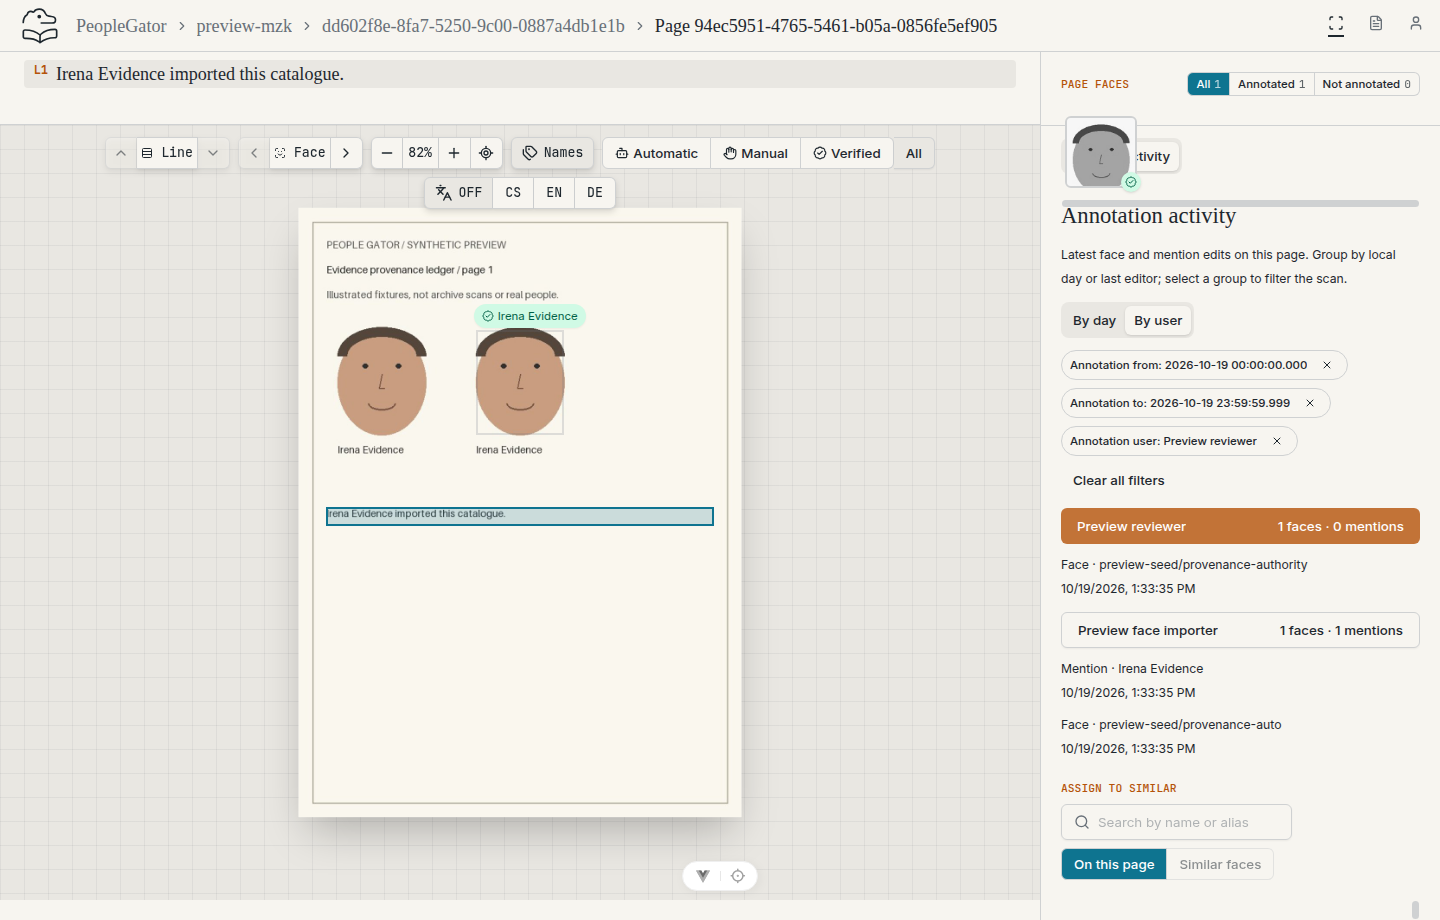
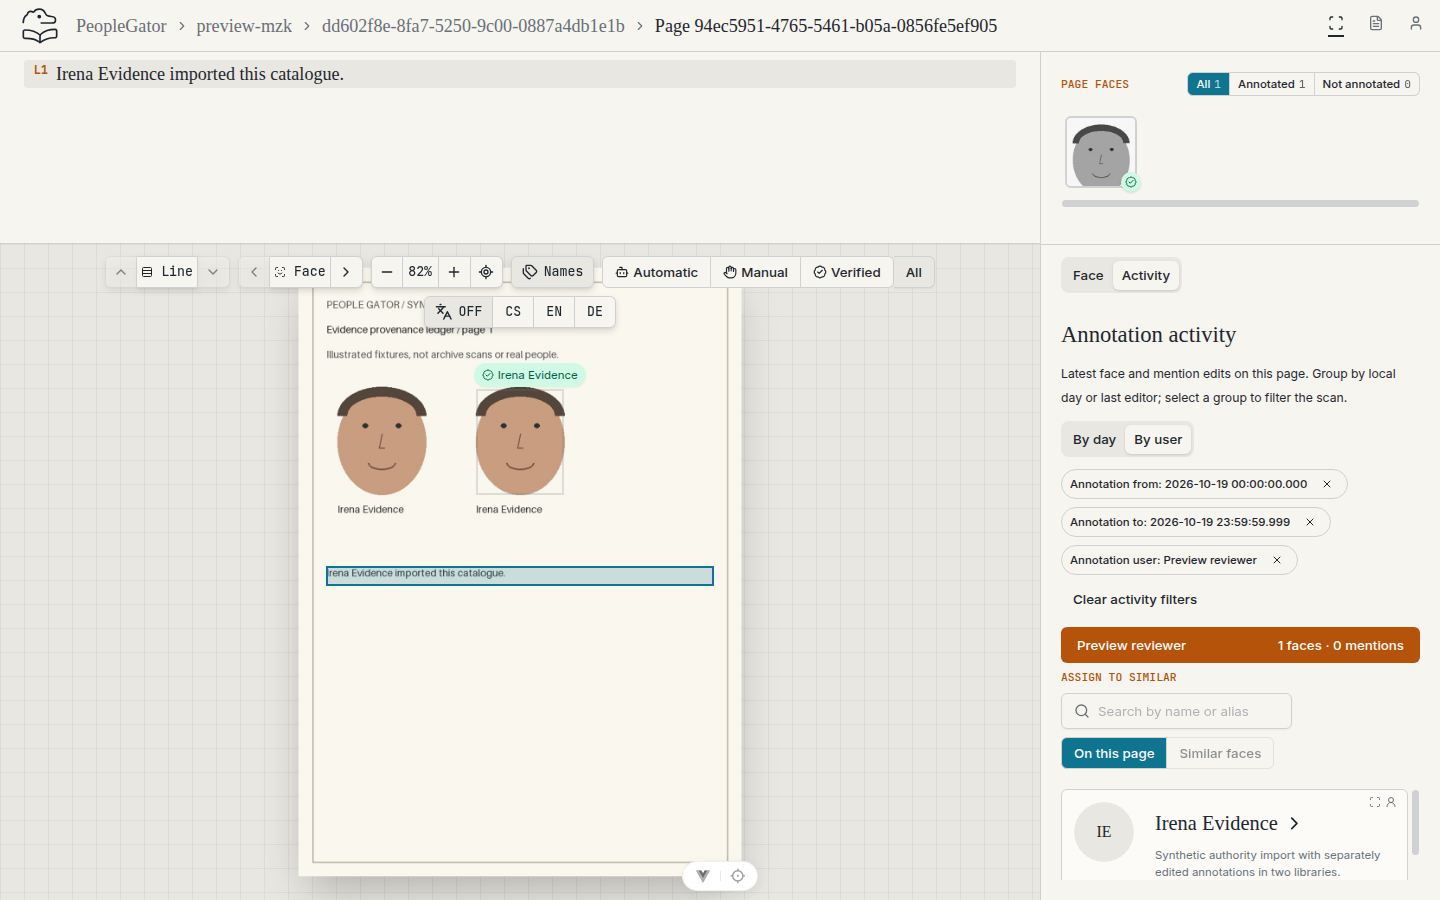
Bound activity scrolling within the sidebar and clarify its clear action

diff --git a/people-gator-app/src/components/custom/PageActivityPanel.vue b/people-gator-app/src/components/custom/PageActivityPanel.vue
@@ -81,7 +81,10 @@ function clear() {
 }
 </script>
 <template>
-  <section class="min-w-0 space-y-3 p-5" aria-label="Page annotation activity">
+  <section
+    class="max-h-[min(50dvh,23rem)] min-w-0 space-y-3 overflow-y-auto p-5"
+    aria-label="Page annotation activity"
+  >
     <h3>Annotation activity</h3>
     <p>
       <small
@@ -103,13 +106,18 @@ function clear() {
         ><TabsTrigger value="user">By user</TabsTrigger></TabsList
       >
     </Tabs>
-    <ActiveFilters :filters="tags" @remove="remove" @clear="clear" />
+    <ActiveFilters
+      clear-label="Clear activity filters"
+      :filters="tags"
+      @remove="remove"
+      @clear="clear"
+    />
     <p v-if="error" role="alert">
       Could not load activity. <Button variant="link" @click="retry">Retry</Button>
     </p>
     <p v-else-if="loading" role="status">Loading all page annotations…</p>
     <p v-else-if="!groups.length">No face or mention activity on this page.</p>
-    <div v-else class="max-h-72 space-y-3 overflow-y-auto">
+    <div v-else class="space-y-3">
       <section v-for="group in groups" :key="group.key" class="min-w-0 space-y-2">
         <Button
           v-if="group.key"

diff --git a/people-gator-app/src/components/custom/ActiveFilters.vue b/people-gator-app/src/components/custom/ActiveFilters.vue
@@ -3,7 +3,7 @@ import { X } from '@lucide/vue'
 import { Badge } from '@/components/ui/badge'
 import { Button } from '@/components/ui/button'
 export type ActiveFilter = { key: string; value: string; label: string }
-defineProps<{ filters: ActiveFilter[]; hideClear?: boolean }>()
+defineProps<{ filters: ActiveFilter[]; hideClear?: boolean; clearLabel?: string }>()
 const emit = defineEmits<{ remove: [filter: ActiveFilter]; clear: [] }>()
 </script>
 <template>
@@ -30,8 +30,8 @@ const emit = defineEmits<{ remove: [filter: ActiveFilter]; clear: [] }>()
         ><X aria-hidden="true"
       /></Button>
     </Badge>
-    <Button v-if="!hideClear" type="button" variant="ghost" size="sm" @click="emit('clear')"
-      >Clear all filters</Button
-    >
+    <Button v-if="!hideClear" type="button" variant="ghost" size="sm" @click="emit('clear')">{{
+      clearLabel ?? 'Clear all filters'
+    }}</Button>
   </div>
 </template>

diff --git a/people-gator-app/src/__tests__/page-activity.spec.ts b/people-gator-app/src/__tests__/page-activity.spec.ts
@@ -77,11 +77,11 @@ describe('page annotation activity', () => {
     expect(wrapper.text()).toContain('User not recorded')
     expect(wrapper.text()).toContain('Historical face')
     expect(
-      wrapper.findAll('button').filter((button) => button.text() === 'Clear all filters'),
+      wrapper.findAll('button').filter((button) => button.text() === 'Clear activity filters'),
     ).toHaveLength(1)
     await wrapper
       .findAll('button')
-      .find((button) => button.text() === 'Clear all filters')!
+      .find((button) => button.text() === 'Clear activity filters')!
       .trigger('click')
     await flushPromises()
     expect(router.currentRoute.value.query.evidence_user).toBeUndefined()

diff --git a/people-gator-app/src/views/DocumentPageView.vue b/people-gator-app/src/views/DocumentPageView.vue
@@ -631,6 +631,7 @@ onBeforeUnmount(() => {
   }
 
   .workspace-galery {
+    min-height: 12rem;
     grid-column: 2;
     grid-row: 1;
   }
